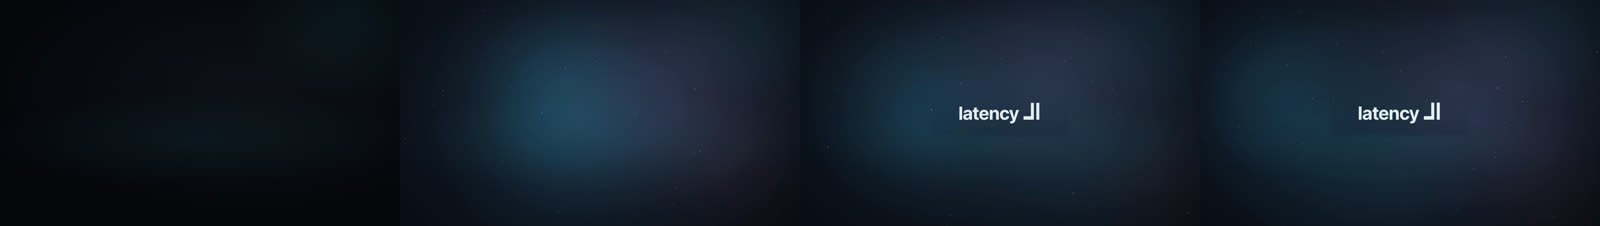
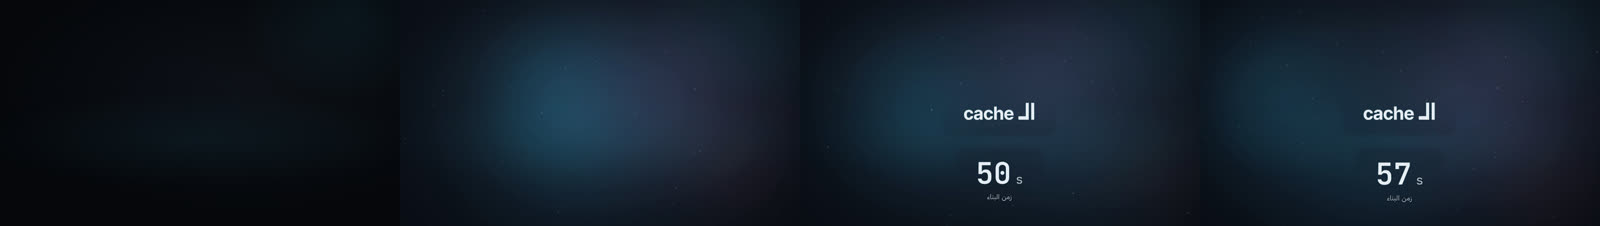
P7 code-media: LoopPlate finished (pure-frame loop index, host-level blend, demo with term + d:6.7:2 counter; snap PASS det 0 pending-critic; perf lite 0.135 / standard 0.168 / hero 0.170 box s/frame; Arabic QA pass)
Claude-Session: https://claude.ai/code/session_01VrU9wxU8GmuhdhWAAHnnQ8

diff --git a/studio/src/demos/code-media.tsx b/studio/src/demos/code-media.tsx
@@ -119,16 +119,22 @@ const demos: DemoModule = {
       },
     },
     {
-      // seamless 10 s loop played behind a kinetic word (the plate never carries meaning): screen blend (CSS mix-blend-mode on the layer host) over the backdrop
+      // seamless 10 s loop played behind a term and a sourced number (the plate never carries meaning; d:6.7:2 = 57 s cache-miss build):
+      // screen blend (CSS mix-blend-mode on the layer host) over the backdrop
       name: 'LoopPlate',
       frames: 120,
-      words: [[LP(1), 12, 36]],
+      words: [[LP(1), 12, 36], [LP(2), 54, 78]],
       shot: {
         fx_tier: 'standard',
         camera: {move: 'push_in', intensity: 0.3},
         layers: [
           {component: 'LoopPlate', props: {id: 'plate', plate: 'demo-aurora-loop', blend: 'screen', opacity: 1, speed: 1, slot: 'full', depth: 'far'}, at: {word: LP(1), lead_frames: 12}},
-          {component: 'KineticWord', props: {id: 'kw', text: 'الـlatency', slot: 'center', size: 'kinetic'}, at: {word: LP(1), lead_frames: 2}},
+          {component: 'KineticWord', props: {id: 'kw', text: 'الـcache', slot: 'center', size: 'kinetic'}, at: {word: LP(1), lead_frames: 2}},
+          {
+            component: 'NumberCounter',
+            props: {id: 'cnt', to: {value: 57, ref: 'd:6.7:2', unit: 's'}, format: 'duration', label: 'زمن البناء', slot: 'lower-third'},
+            at: {word: LP(2), lead_frames: 2},
+          },
         ],
       },
     },

diff --git a/docs/p7/catalog_status/code-media.md b/docs/p7/catalog_status/code-media.md
@@ -7,5 +7,6 @@ Rows are added per component by the engineer who finishes it.
 | Terminal | implemented | snap PASS det 0, baselines pending-critic (`studio/test/baselines/Terminal/`, strip `reports/p7/snap/Terminal.jpg`); perf box s/frame lite 0.060 / standard 0.075 / hero 0.095 (budgets 0.201 / 0.201 / 1.038), `reports/perf/components/Terminal.json`; qa arabic PASS (`reports/qa/arabic/Terminal.json`); demo = CH-34 Docker layer cache, 5 s / 57 s from d:6.7:1 and d:6.7:2. r2 polish for critic r1 non-blocking #1/#2: CACHED keyword in signal, spoken figures (5 s / 57 s) one ink step brighter (Tok.c colour override in _code-media/kit.tsx, additive). DOM-only (no WebGL), so every tier runs the same markup and the hero tier adds only the shot-level FX. |
 | CodeTrace | implemented | snap PASS det 0, baselines pending-critic (`studio/test/baselines/CodeTrace/`, strip `reports/p7/snap/CodeTrace.jpg`); perf box s/frame lite 0.059 / standard 0.076 / hero 0.072 (budgets 0.201 / 0.201 / 1.038), `reports/perf/components/CodeTrace.json`; qa arabic PASS (`reports/qa/arabic/CodeTrace.json`); demo = CH-27 receipts: six amounts 120, 80, 200, 50, 150, 100 with T3 and T6 failed (d:5.2:1..6), OK total 400 EGP (d:5.2:8). Visual verb: execution cursor of light (signal band + edge bar + light head) stepping on word anchors, progress pips, whole-phrase Arabic note per step in the footer; the window scrolls in whole rows and fades rows that run off the edge (text-safe mask). Distinct from Terminal (typed command/output log) and SqlStages (clause execution order). DOM-only, so all tiers share the markup; the hero tier adds only shot-level FX. |
 | SqlStages | implemented | snap PASS det 0, baselines pending-critic (`studio/test/baselines/SqlStages/`, strip `reports/p7/snap/SqlStages.jpg`); perf box s/frame lite 0.081 / standard 0.121 / hero 0.162 (budgets 0.201 / 0.201 / 1.038; measured under shared-queue load), `reports/perf/components/SqlStages.json`; qa arabic n/a (no Arabic copy in the demo, `reports/qa/arabic/SqlStages.json` PASS); demo = CH-11 SQL funnel query from d:6.3:1, eight stages lit in execution order on spoken anchors. Visual verb: written order vs execution order. Clauses of the query sit one per line; an execution-number badge lands on each clause (SELECT is written first but gets 6); the rail below is a pipe of numbered stage chips that fills with light as the rows travel from stage to stage; rim light and a signal pool under the plate warm with progress. Distinct from CodeTrace (a cursor over code lines) and RowFunnel (row counts per stage, d:6.3:2, not shown here: the frozen schema has no count prop). DOM-only, every tier shares the markup; hero adds shot-level FX only. r2: the clause edge bar is a background layer, not `box-shadow: inset` (the engine note below; snap det 0 on re-run, one loaded-box run showed 1.2 k px before the fix). |
+| LoopPlate | implemented | Full-bleed pre-rendered seamless 10 s loop (`data/derived/plates/<plate>.mp4` + JSON sidecar from `dc render plate`), the cheap route to heavy atmosphere (ADR-002 RT5: WebGL only on hero). Clip frame is a pure function of `ctx.frame` and `speed` (idx = floor((t - at) * speed * clipFps / fps) mod frames, pinned a quarter frame after the pts so the decoder pick is never a tie; the earlier half-frame pin gave a 1,443 px determinism failure). Fades in over the morph preset, out over exit at `until`; `blend` normal / screen / add set on the layer host (`[data-dc-layer]`) because the camera group isolates blending; 3 % overscan so push / truck on the far plane never shows an edge; missing plate = marked placeholder in previews, hard failure in finals. No 3D, so lite = standard = hero look. Demo: `demo-aurora-loop` (procedural fixture, `LoopPlate/fixtures/make_demo_plate.py`, not a P10 plate) behind the term `الـcache` and a NumberCounter 57 s (d:6.7:2). Snap PASS det 0 qa 0, baselines pending-critic. Perf box s/frame at 3 slots, other_jobs_running 0: lite 0.135 / standard 0.168 / hero 0.170 (budgets 0.201 / 0.201 / 1.038); OffthreadVideo decode dominates. Arabic QA PASS 2 strings (`reports/qa/arabic/p7-LoopPlate.json`). Distinct from AIPlate (still + depth parallax) and ManimInsert (alpha video played once). |
 
 Engine note (Terminal): an `inset` box-shadow on a row of the code block made the 50 % frame non-deterministic (about 1,170 px of tile-seam differences over the backdrop) once the 100 % frame had been rendered in the same page. Row rims are therefore drawn as a background gradient layer, never as `box-shadow: inset`. Other components that combine a large masked backdrop with an inset shadow may see the same flake.
